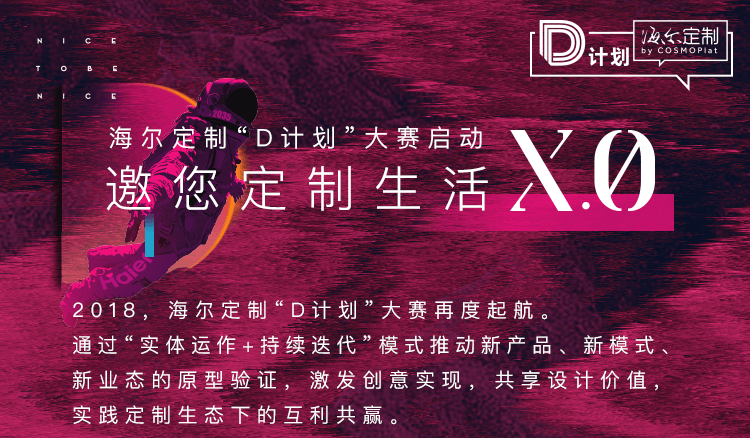
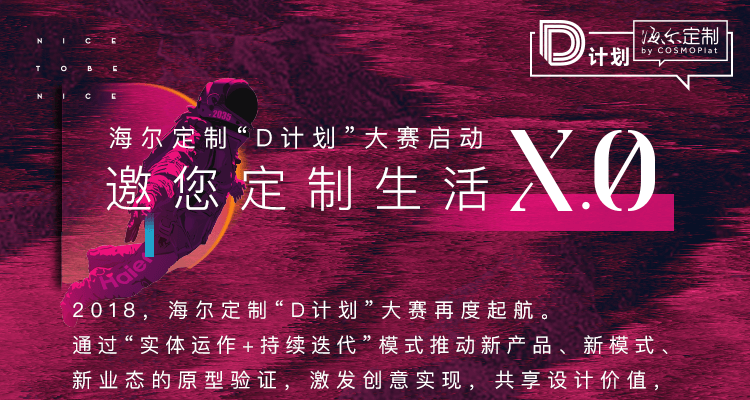
1

diff --git a/css/styles.css b/css/styles.css
@@ -16,18 +16,19 @@ body section > div > a {
 }
 html section > div:nth-child(1),
 body section > div:nth-child(1) {
-  height: 4.38rem;
+  height: 4rem;
   background: url(../images/bg_01.png) center no-repeat;
   background-size: cover;
 }
 html section > div:nth-child(2),
 body section > div:nth-child(2) {
-  height: 5.28rem;
+  height: 5rem;
   background: url(../images/bg_02.png) center no-repeat;
   background-size: cover;
 }
 html section > div:nth-child(2) a,
 body section > div:nth-child(2) a {
+  top: .4rem;
   right: 0;
   width: 2.96rem;
   height: .7rem;
@@ -36,12 +37,13 @@ body section > div:nth-child(2) a {
 }
 html section > div:nth-child(3),
 body section > div:nth-child(3) {
-  height: 2.4rem;
+  height: 3.06rem;
   background: url(../images/bg_03.png) center no-repeat;
   background-size: cover;
 }
 html section > div:nth-child(3) > a:nth-child(1),
 body section > div:nth-child(3) > a:nth-child(1) {
+  top: .68rem;
   left: 0;
   width: 3.77rem;
   height: .93rem;
@@ -51,6 +53,7 @@ body section > div:nth-child(3) > a:nth-child(1) {
 }
 html section > div:nth-child(3) > a:nth-child(2),
 body section > div:nth-child(3) > a:nth-child(2) {
+  top: .68rem;
   right: 0;
   width: 4.92rem;
   height: .85rem;

diff --git a/.history/css/styles_20181120155521.less b/.history/css/styles_20181120155521.less
@@ -8,7 +8,7 @@ html,body{
             overflow-x: hidden;
             >a{
                 position: absolute;
-                top: 0;
+                top: .4;
             }
             &:nth-child(1){
                 height: 4rem;
@@ -20,7 +20,7 @@ html,body{
                 background: url(../images/bg_02.png) center no-repeat;
                 background-size: cover;
                 a{
-                    top: .4rem;
+                    top: .68rem;
                     right: 0;
                     width: 2.96rem;
                     height: .7rem;
@@ -34,7 +34,6 @@ html,body{
                 background-size: cover;
                 >a{
                     &:nth-child(1){
-                        top: .68rem;
                         left: 0;
                         width: 3.77rem;
                         height: .93rem;
@@ -43,7 +42,6 @@ html,body{
                         z-index: 1;
                     }
                     &:nth-child(2){
-                        top: .68rem;
                         right: 0;
                         width: 4.92rem;
                         height: .85rem;

diff --git a/.history/css/styles_20181120155516.less b/.history/css/styles_20181120155516.less
@@ -8,7 +8,7 @@ html,body{
             overflow-x: hidden;
             >a{
                 position: absolute;
-                top: 0;
+                top: .4;
             }
             &:nth-child(1){
                 height: 4rem;
@@ -20,7 +20,7 @@ html,body{
                 background: url(../images/bg_02.png) center no-repeat;
                 background-size: cover;
                 a{
-                    top: .4rem;
+                    .68
                     right: 0;
                     width: 2.96rem;
                     height: .7rem;
@@ -34,7 +34,6 @@ html,body{
                 background-size: cover;
                 >a{
                     &:nth-child(1){
-                        top: .68rem;
                         left: 0;
                         width: 3.77rem;
                         height: .93rem;
@@ -43,7 +42,6 @@ html,body{
                         z-index: 1;
                     }
                     &:nth-child(2){
-                        top: .68rem;
                         right: 0;
                         width: 4.92rem;
                         height: .85rem;

diff --git a/.history/css/styles_20181120155503.less b/.history/css/styles_20181120155503.less
@@ -8,7 +8,7 @@ html,body{
             overflow-x: hidden;
             >a{
                 position: absolute;
-                top: 0;
+                top: .4;
             }
             &:nth-child(1){
                 height: 4rem;
@@ -20,7 +20,6 @@ html,body{
                 background: url(../images/bg_02.png) center no-repeat;
                 background-size: cover;
                 a{
-                    top: .4rem;
                     right: 0;
                     width: 2.96rem;
                     height: .7rem;
@@ -34,7 +33,6 @@ html,body{
                 background-size: cover;
                 >a{
                     &:nth-child(1){
-                        top: .68rem;
                         left: 0;
                         width: 3.77rem;
                         height: .93rem;
@@ -43,7 +41,6 @@ html,body{
                         z-index: 1;
                     }
                     &:nth-child(2){
-                        top: .68rem;
                         right: 0;
                         width: 4.92rem;
                         height: .85rem;

diff --git a/.history/css/styles_20181120155302.less b/.history/css/styles_20181120155302.less
@@ -20,7 +20,6 @@ html,body{
                 background: url(../images/bg_02.png) center no-repeat;
                 background-size: cover;
                 a{
-                    top: .4rem;
                     right: 0;
                     width: 2.96rem;
                     height: .7rem;
@@ -34,7 +33,6 @@ html,body{
                 background-size: cover;
                 >a{
                     &:nth-child(1){
-                        top: .68rem;
                         left: 0;
                         width: 3.77rem;
                         height: .93rem;
@@ -43,7 +41,6 @@ html,body{
                         z-index: 1;
                     }
                     &:nth-child(2){
-                        top: .68rem;
                         right: 0;
                         width: 4.92rem;
                         height: .85rem;

diff --git a/.history/css/styles_20181120155542.less b/.history/css/styles_20181120155542.less
@@ -34,7 +34,6 @@ html,body{
                 background-size: cover;
                 >a{
                     &:nth-child(1){
-                        top: .68rem;
                         left: 0;
                         width: 3.77rem;
                         height: .93rem;
@@ -43,7 +42,6 @@ html,body{
                         z-index: 1;
                     }
                     &:nth-child(2){
-                        top: .68rem;
                         right: 0;
                         width: 4.92rem;
                         height: .85rem;

diff --git a/.history/css/styles_20181120155552.less b/.history/css/styles_20181120155552.less
@@ -43,7 +43,6 @@ html,body{
                         z-index: 1;
                     }
                     &:nth-child(2){
-                        top: .68rem;
                         right: 0;
                         width: 4.92rem;
                         height: .85rem;
